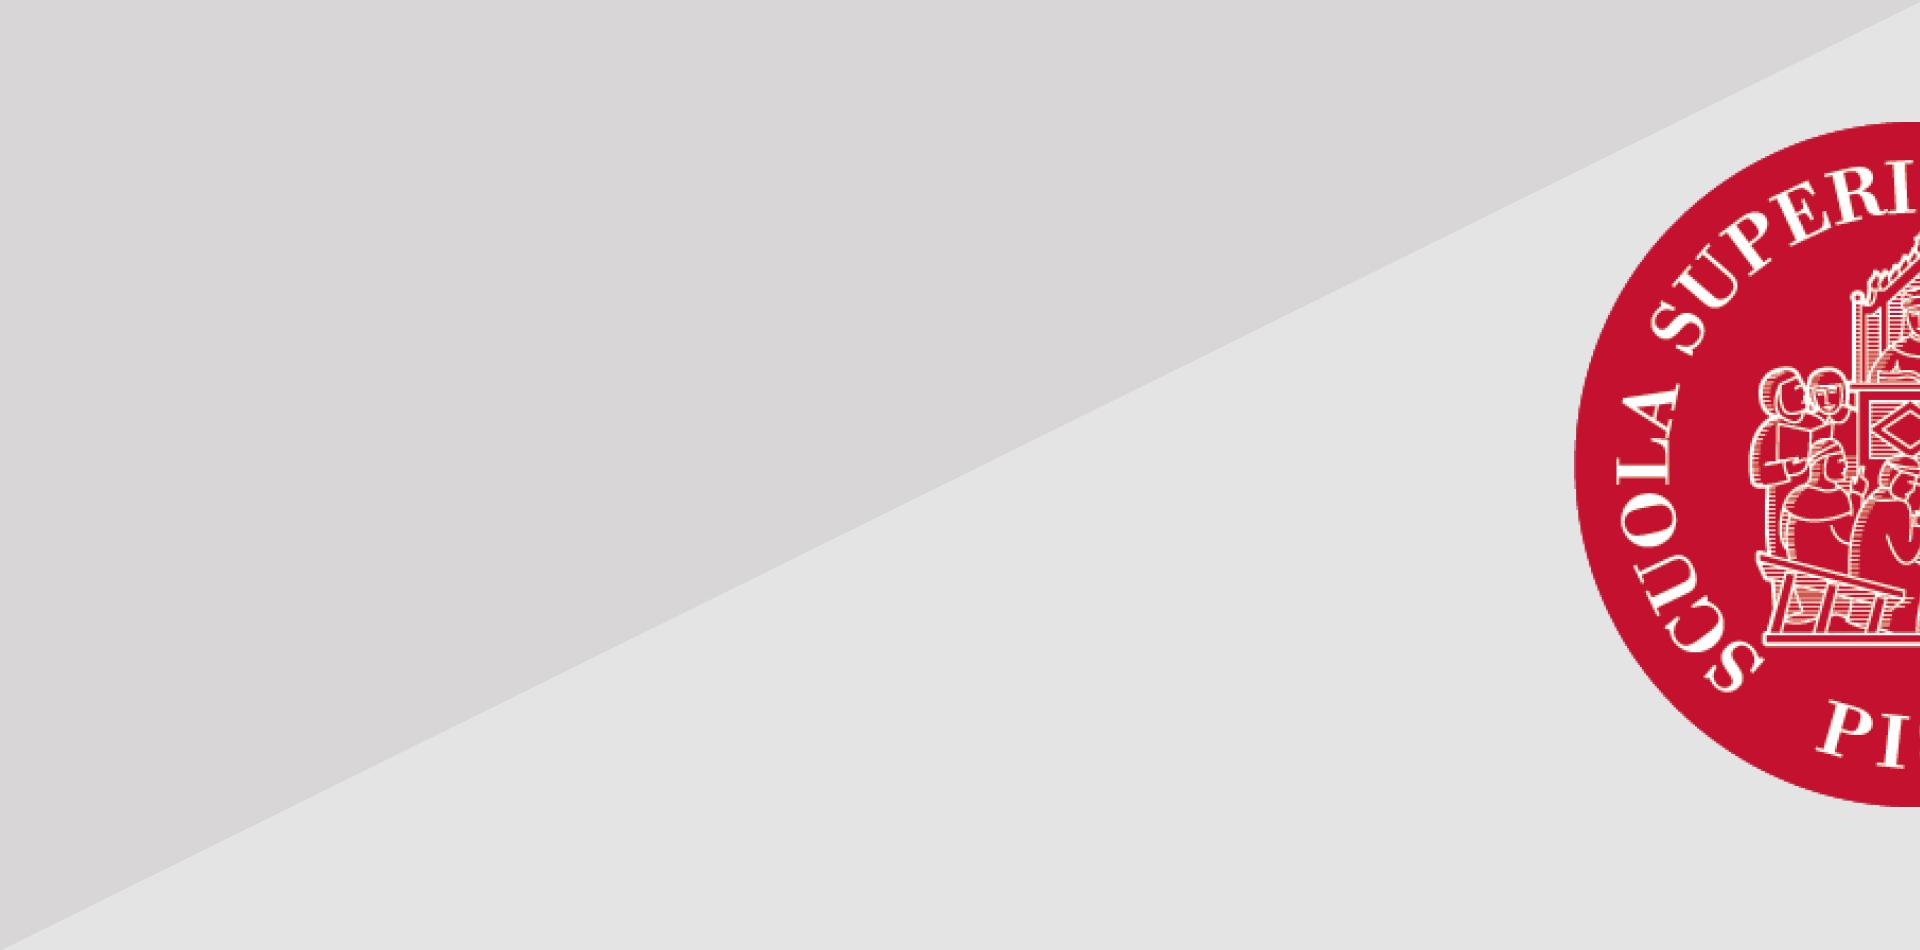
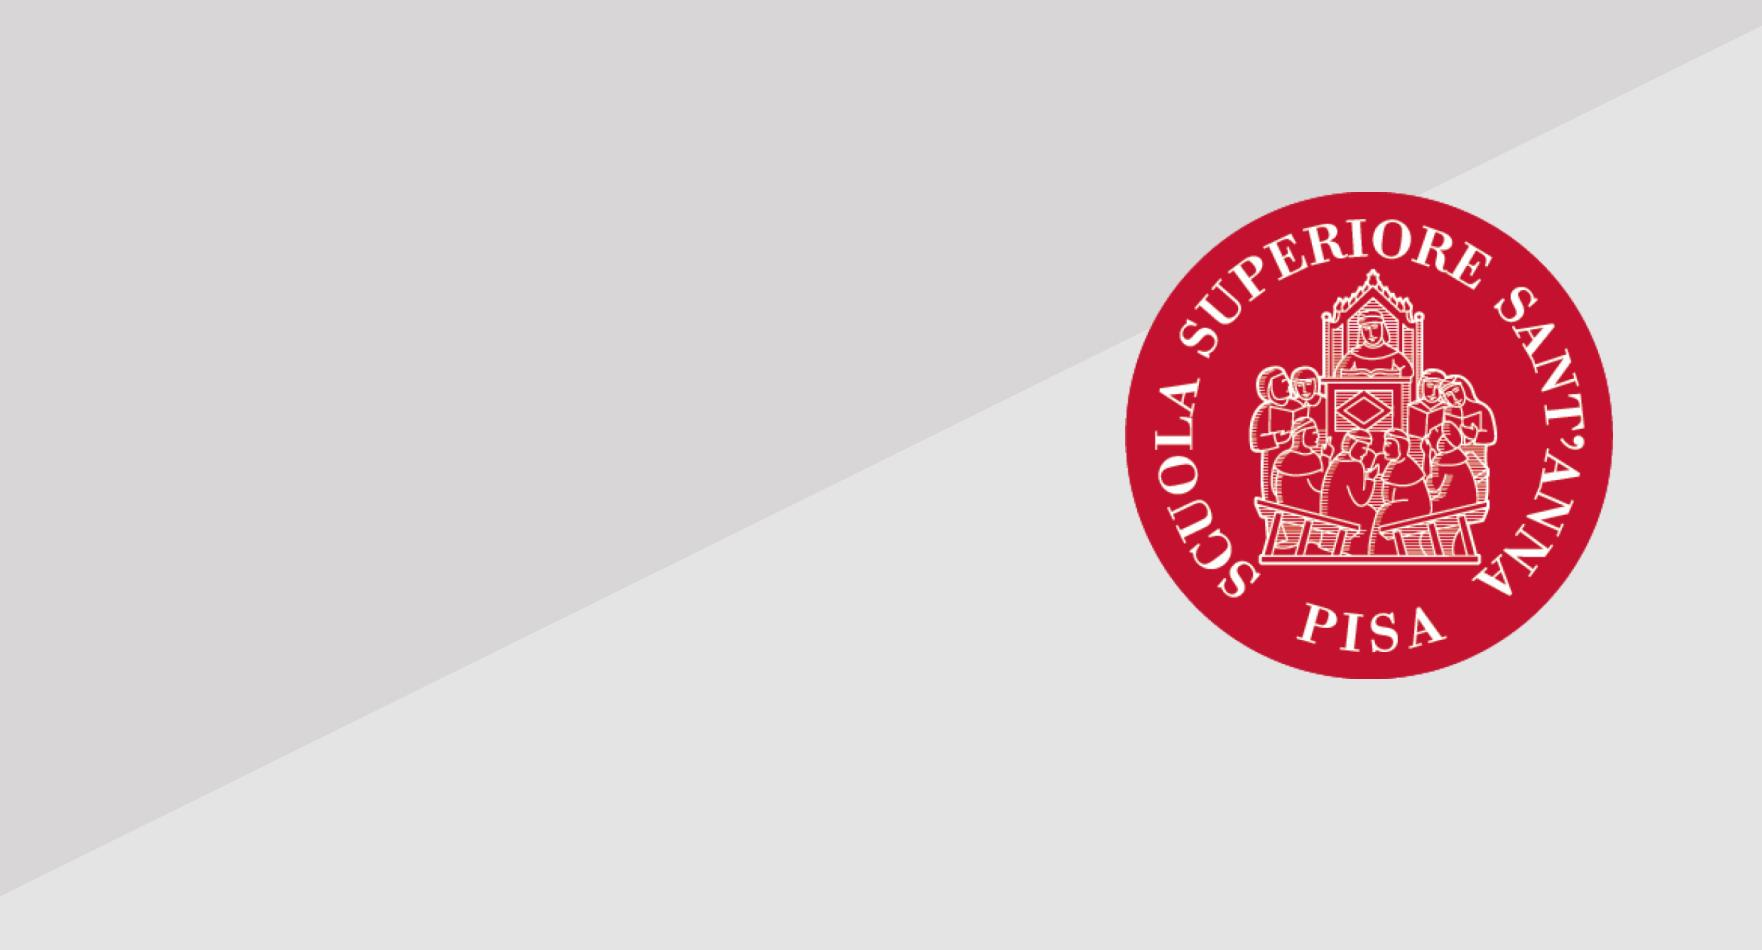
Fixed image responsitivity

Changed region(s): [[0.6243, 0.1221, 1.0, 0.8547]]

diff --git a/static/frontend/css/style.css b/static/frontend/css/style.css
@@ -623,8 +623,21 @@ html.ie7 .icon-home, html.ie7 .icon-admin-home {
 
 
 /* 6. About Us */
-.photo-img {margin-top:35px; line-height:0px}
-.photo-img img {width:100%}
+.photo-img {
+	width: 100%;
+	height: auto; /* Adjust this value as needed */
+	overflow: hidden;
+	margin-top:35px; 
+	line-height:0px;
+  }
+  
+	
+  
+  .photo-img img {
+	height: auto;
+	max-height: 670px;
+	width: 100%;
+  }
 .info-block{ position:absolute; width:460px; color:#fff; border-radiua:3px; margin-left:35px; margin-top:80px; background:#000}
 .info-block ul {overflow:hidden; text-align:left; padding:0px; margin:0px!important}
 .info-block ul li{ display:block; text-align:left; padding:0px; margin:0px!important; padding:20px 25px; border-bottom:1px rgba(255,255,255,0.4) solid; }

diff --git a/configs.py b/configs.py
@@ -16,13 +16,13 @@ home_images_default = [
         'author_url': 'https://unsplash.com/@inf1783',
         'subtitle_color': '#fff'
     },
-        {
+    {
         'image': 'rob-bye.jpg',
-        'main_color': '#fff',
-        'main_title_color': '#fff',
+        'main_color': '#000000',
+        'main_title_color': '#000000',
         'author': 'Robert Bye',
         'author_url': 'https://unsplash.com/it/@robertbye',
-        'subtitle_color': '#fff'
+        'subtitle_color': '#000000'
     },
     {
         'image': 'paulo-simoes-mendes.jpg',
